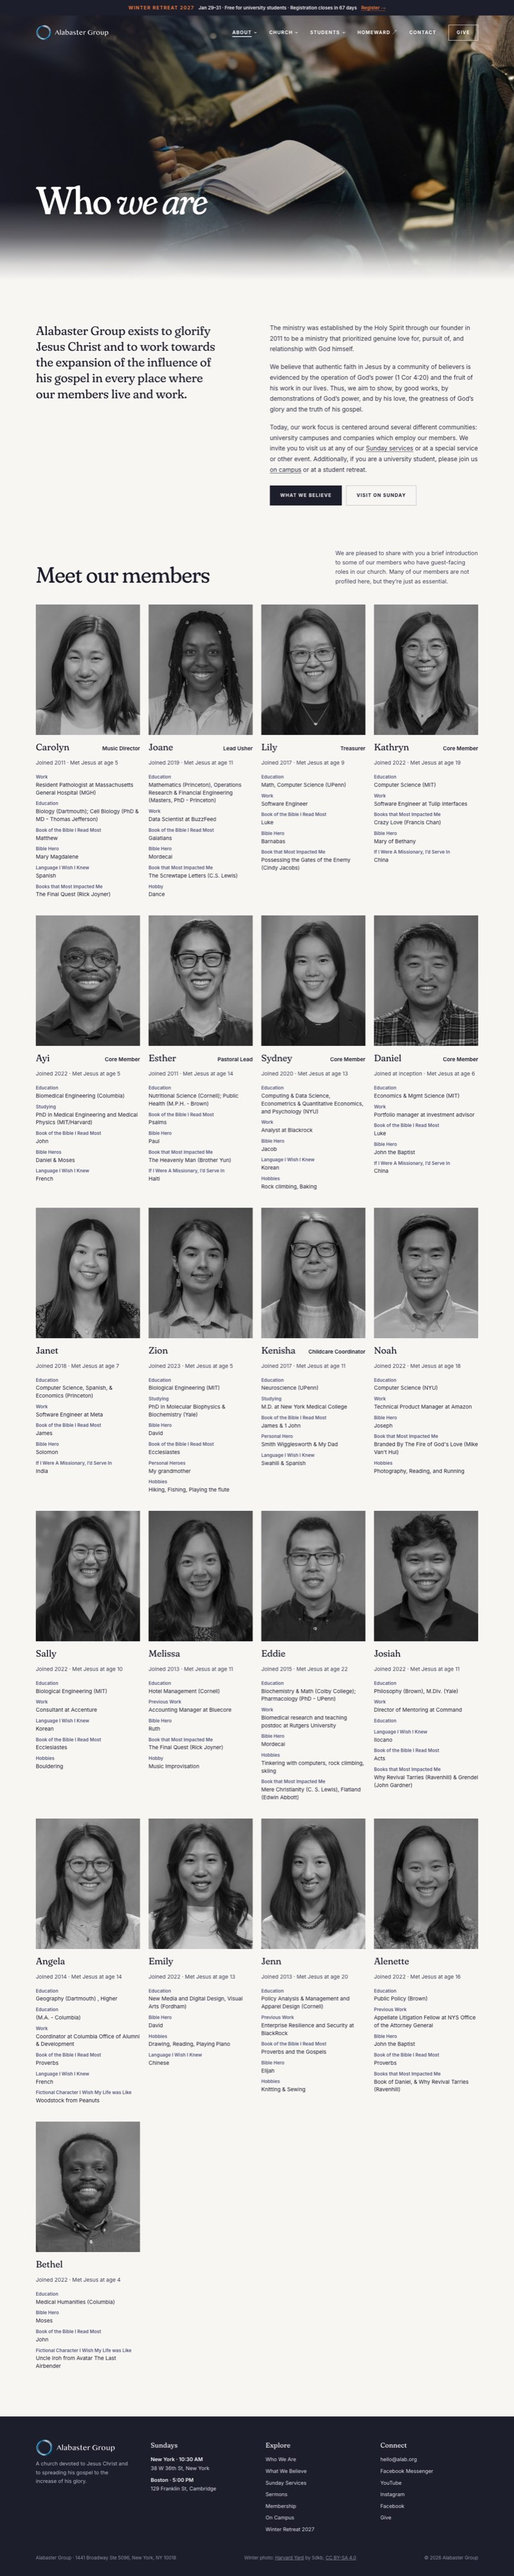
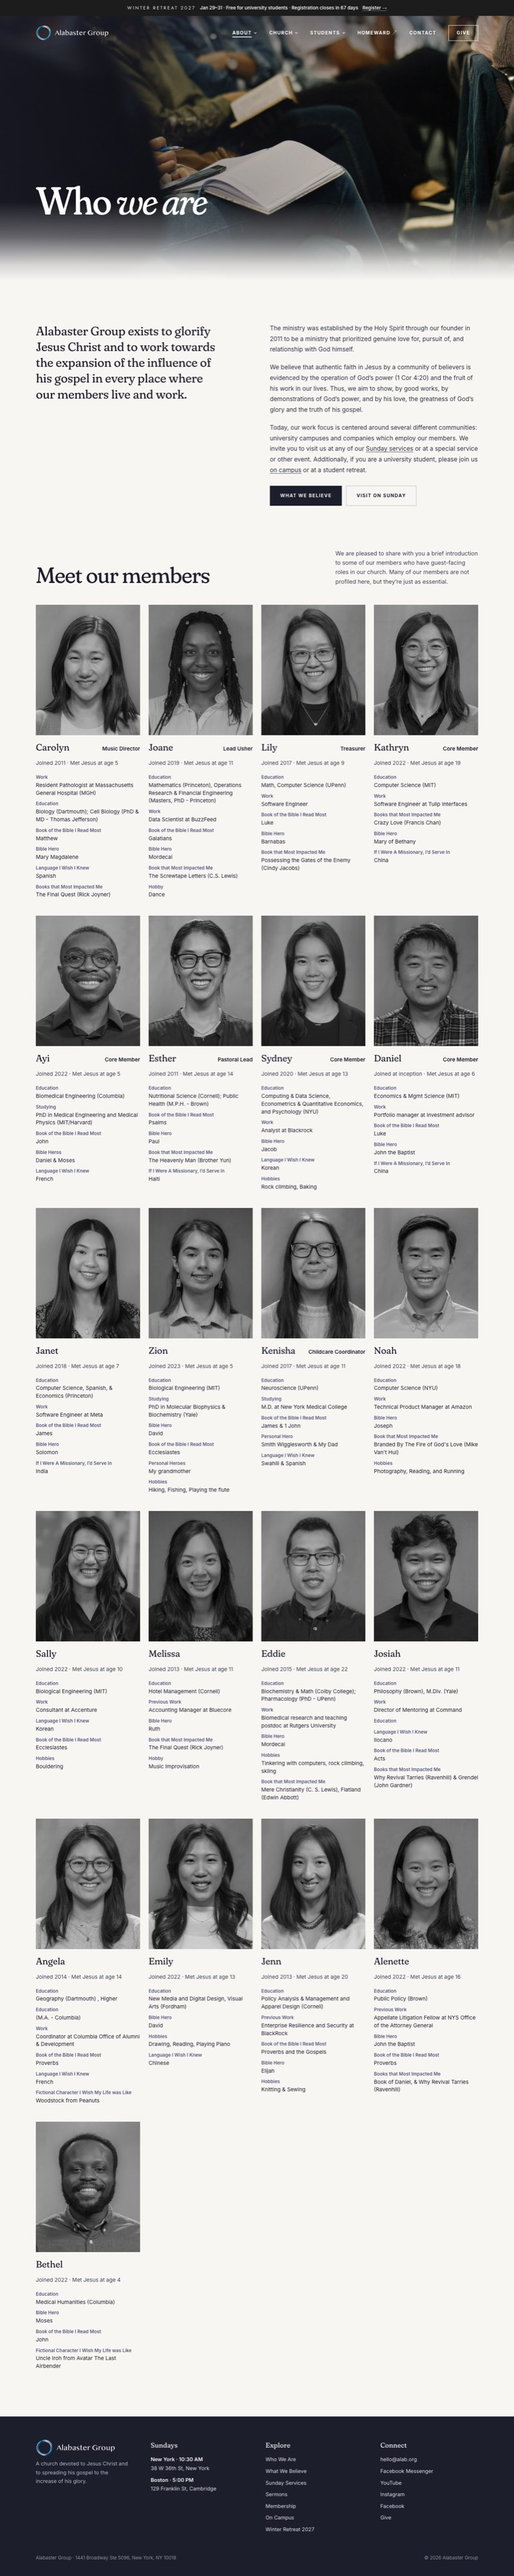
Winter Retreat in the poster's look: charcoal, Jost Light caps, the prism-light photo
- data-retreat="winter" (from site.json) switches the retreat styles; the Fall flyer styles stay for next autumn
- Homepage feature, retreat page, schedule, announcement bar and Events/On Campus plug restyled
- Retreat photo is the figure-in-prism-light from the official poster, cropped without its text
- Drops the stand-in Harvard Yard photo and its footer credit
- Test plan screenshots refreshed

diff --git a/public/css/site.css b/public/css/site.css
@@ -759,3 +759,72 @@ h2 em, h3 em { font-style: normal; }
 @media (max-width: 900px) {
   .hero__shade, .hero--page .hero__shade { background: linear-gradient(180deg, rgba(29, 30, 44, 0.45) 0%, rgba(29, 30, 44, 0.2) 28%, rgba(29, 30, 44, 0.62) 55%, rgba(29, 30, 44, 0.55) 78%, rgba(29, 30, 44, 0) 100%); }
 }
+
+/* ---------- Winter Retreat 2027: matches the poster (charcoal concrete, prism light, Jost Light caps) ----------
+   Switched on by site.retreat.theme = "winter"; the Fall flyer styles above stay for next autumn. */
+[data-retreat="winter"] {
+  --retreat-bg: #1B1C1C;
+  --retreat-ink: #F2F1EE;
+  --retreat-muted: rgba(242, 241, 238, 0.66);
+  --retreat-type: 'Jost', 'Futura', 'Inter', sans-serif;
+}
+[data-retreat="winter"] .dark:has(> .retreat),
+[data-retreat="winter"] section.dark:has(.retreat),
+[data-retreat="winter"] #schedule.dark { background: var(--retreat-bg); }
+
+[data-retreat="winter"] .retreat__lockup { gap: 26px; }
+[data-retreat="winter"] .retreat__title {
+  font-family: var(--retreat-type); font-weight: 300; text-transform: uppercase; color: var(--retreat-ink);
+  font-size: clamp(52px, 6.6vw, 104px); line-height: 1.1; letter-spacing: 0.14em; margin-left: -0.01em;
+}
+[data-retreat="winter"] .retreat__when {
+  flex-direction: column; align-items: flex-start; text-align: left; gap: 6px; border-top: 0; position: relative; padding-top: 30px;
+}
+[data-retreat="winter"] .retreat__when::before {
+  content: ''; position: absolute; top: 0; left: 0; width: 72px; height: 1.5px; background: var(--retreat-ink);
+}
+[data-retreat="winter"] .retreat__when span {
+  font-family: var(--retreat-type); font-weight: 300; font-size: clamp(18px, 1.6vw, 22px);
+  letter-spacing: 0.24em; line-height: 1.35; color: var(--retreat-ink);
+}
+[data-retreat="winter"] .retreat__deadline { color: var(--retreat-muted); font-weight: 500; }
+[data-retreat="winter"] .retreat .orange,
+[data-retreat="winter"] .retreat-plug .orange { color: inherit; }
+[data-retreat="winter"] .retreat .mono-list .orange { color: var(--retreat-muted); }
+[data-retreat="winter"] .retreat .btn--orange,
+[data-retreat="winter"] #register .btn--orange { background: var(--retreat-ink); color: var(--retreat-bg); }
+[data-retreat="winter"] .retreat .btn--orange:hover,
+[data-retreat="winter"] #register .btn--orange:hover { background: #FFFFFF; }
+
+/* The poster photo runs clean, no orange corner brackets */
+[data-retreat="winter"] .retreat .bracketed { padding: 0; }
+[data-retreat="winter"] .retreat .bracketed::before,
+[data-retreat="winter"] .retreat .bracketed::after { content: none; }
+
+/* Schedule on the retreat page */
+[data-retreat="winter"] .schedule__day h3 {
+  font-family: var(--retreat-type); font-weight: 300; font-size: 30px; letter-spacing: 0.18em; color: var(--retreat-ink);
+}
+
+/* Announcement bar */
+[data-retreat="winter"] .announce { background: var(--retreat-bg); }
+[data-retreat="winter"] .announce strong {
+  font-family: var(--retreat-type); font-weight: 400; letter-spacing: 0.24em; color: var(--retreat-ink);
+}
+[data-retreat="winter"] .announce span.u { color: var(--retreat-ink); text-decoration-color: rgba(242, 241, 238, 0.5); }
+[data-retreat="winter"] .announce:hover span.u { text-decoration-color: var(--retreat-ink); }
+
+/* Plug on Events and On Campus */
+[data-retreat="winter"] .retreat-plug { background: var(--retreat-bg); }
+[data-retreat="winter"] .retreat-plug::before, [data-retreat="winter"] .retreat-plug::after { content: none; }
+[data-retreat="winter"] .retreat-plug__title {
+  font-family: var(--retreat-type); font-weight: 300; font-size: 44px; line-height: 1.12; letter-spacing: 0.14em; color: var(--retreat-ink);
+}
+[data-retreat="winter"] .retreat-plug__meta .when {
+  font-family: var(--retreat-type); font-weight: 300; font-size: 20px; letter-spacing: 0.2em; color: var(--retreat-ink);
+}
+[data-retreat="winter"] .retreat-plug__meta .mono[style] { color: var(--retreat-muted) !important; }
+[data-retreat="winter"] .retreat-plug .btn--orange { background: var(--retreat-ink); color: var(--retreat-bg); }
+@media (max-width: 700px) {
+  [data-retreat="winter"] .retreat-plug__title { font-size: 36px; }
+}

diff --git a/src/partials/footer.html b/src/partials/footer.html
@@ -8,6 +8,6 @@
 <div class="col"><span class="head">Explore</span><a href="/who-we-are">Who We Are</a><a href="/what-we-believe">What We Believe</a><a href="/sunday-services">Sunday Services</a><a href="/sermons">Sermons</a><a href="/student-membership">Membership</a><a href="/on-campus">On Campus</a><a href="/wr-27">{{site.retreat.name}}</a></div>
 <div class="col"><span class="head">Connect</span><a href="mailto:{{site.email}}">{{site.email}}</a><a href="{{site.messenger}}">Facebook Messenger</a><a href="{{site.youtube}}">YouTube</a><a href="{{site.instagram}}">Instagram</a><a href="{{site.facebook}}">Facebook</a><a href="/donate">Give</a></div>
 </div>
-<div class="footer-meta"><span>Alabaster Group · {{site.mailing}}</span><span>Winter photo: <a href="https://commons.wikimedia.org/wiki/File:Harvard_Yard,_February_2022_6.jpg">Harvard Yard</a> by Sdkb, <a href="https://creativecommons.org/licenses/by-sa/4.0/">CC BY-SA 4.0</a></span><span>© <span data-year>2026</span> Alabaster Group</span></div>
+<div class="footer-meta"><span>Alabaster Group · {{site.mailing}}</span><span>© <span data-year>2026</span> Alabaster Group</span></div>
 </div>
 </footer>

diff --git a/src/layout.html b/src/layout.html
@@ -1,5 +1,5 @@
 <!doctype html>
-<html lang="en">
+<html lang="en" data-retreat="{{site.retreat.theme}}">
 <head>
 <meta charset="utf-8">
 <meta name="viewport" content="width=device-width, initial-scale=1">
@@ -14,7 +14,7 @@
 <link rel="icon" type="image/png" href="/images/logo-rings.png">
 <link rel="preconnect" href="https://fonts.googleapis.com">
 <link rel="preconnect" href="https://fonts.gstatic.com" crossorigin>
-<link rel="stylesheet" href="https://fonts.googleapis.com/css2?family=Fraunces:ital,opsz,wght,SOFT,WONK@0,9..144,300..700,0..100,0..1;1,9..144,300..700,0..100,0..1&family=Inter:ital,wght@0,400;0,500;0,600;0,700;1,600&family=Anton&display=swap">
+<link rel="stylesheet" href="https://fonts.googleapis.com/css2?family=Fraunces:ital,opsz,wght,SOFT,WONK@0,9..144,300..700,0..100,0..1;1,9..144,300..700,0..100,0..1&family=Inter:ital,wght@0,400;0,500;0,600;0,700;1,600&family=Anton&family=Jost:wght@300;400&display=swap">
 <link rel="stylesheet" href="/css/site.css">
 <script src="/js/site.js" defer></script>
 </head>

diff --git a/src/partials/retreat-feature.html b/src/partials/retreat-feature.html
@@ -10,5 +10,5 @@
 <div class="btn-row"><a class="btn btn--orange" href="/wr-27#register">Register now</a><a class="btn btn--outline-light" href="/wr-27#schedule">Schedule &amp; FAQs</a></div>
 <div class="schools">Brown · Columbia · Cornell · Dartmouth · Harvard<br>MIT · NYU · Princeton · UPenn · Yale</div>
 </div>
-<div class="bracketed"><div class="bracketed__img"><img src="/images/wr-27/winter-retreat-yard.jpg" alt="A campus yard on a misty winter evening, lamps lit under bare trees" loading="lazy"></div></div>
+<div class="bracketed"><div class="bracketed__img"><img src="/images/wr-27/winter-retreat-light.jpg" alt="A lone figure walking through a band of prism light on a concrete floor" loading="lazy"></div></div>
 </div>

diff --git a/docs/test-plan/README.md b/docs/test-plan/README.md
@@ -1,6 +1,6 @@
 # Test plan
 
-Generated 2026-11-08 09:53 by `scripts/test_plan.py` from a fresh build.
+Generated 2026-11-08 10:10 by `scripts/test_plan.py` from a fresh build.
 
 ## Automated checks
 
